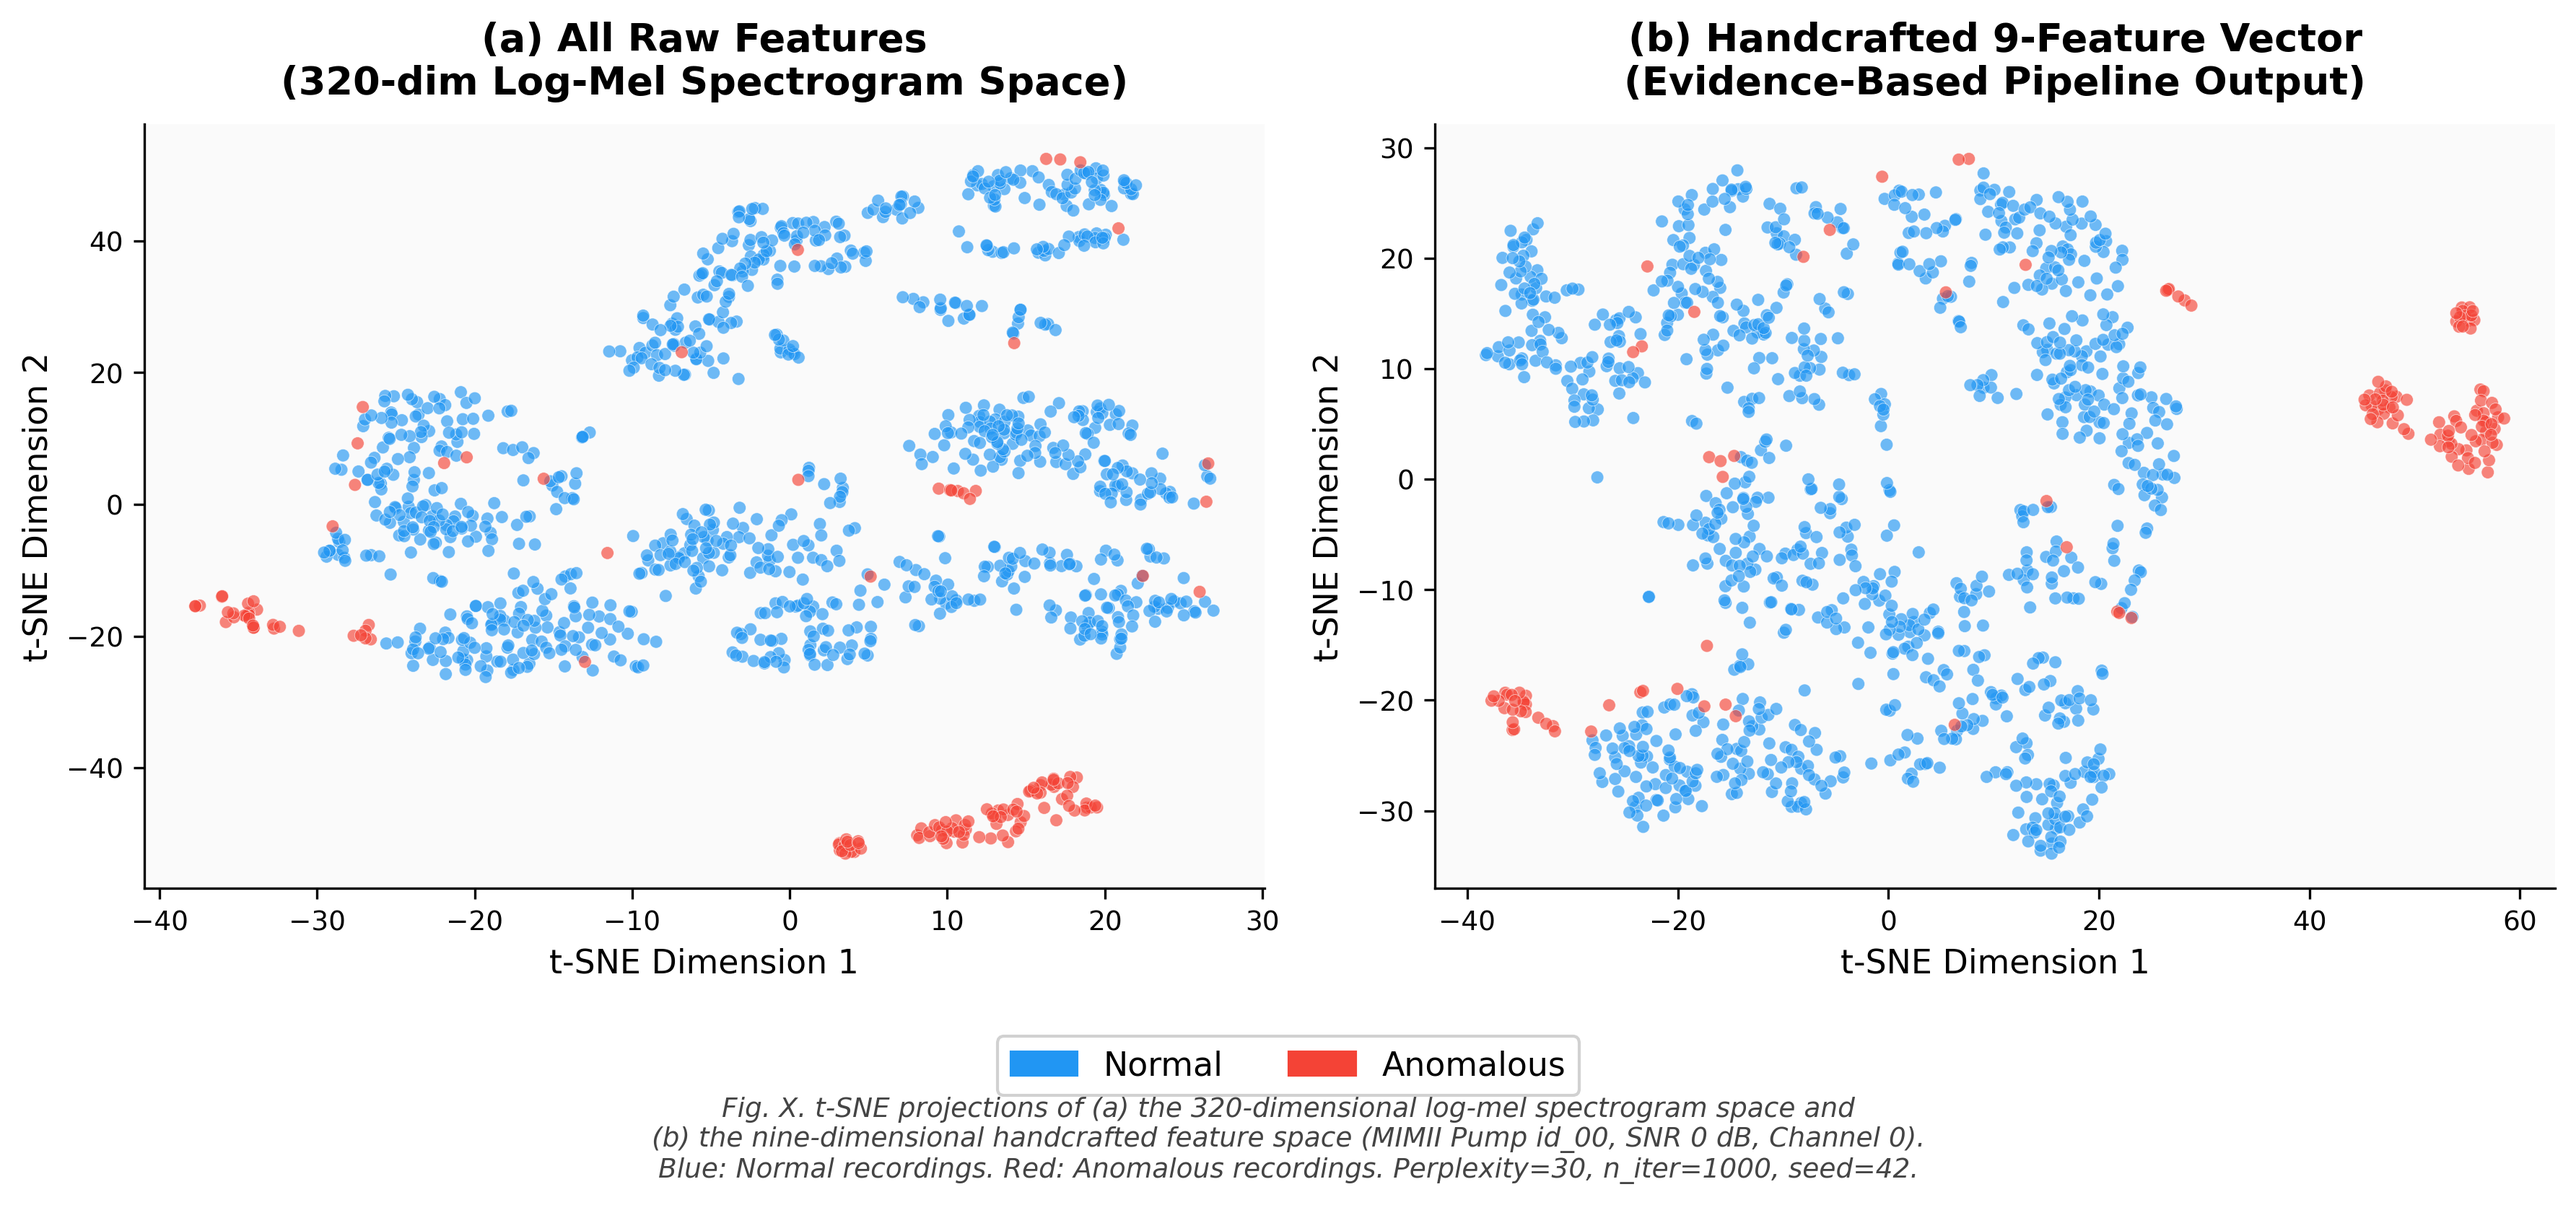
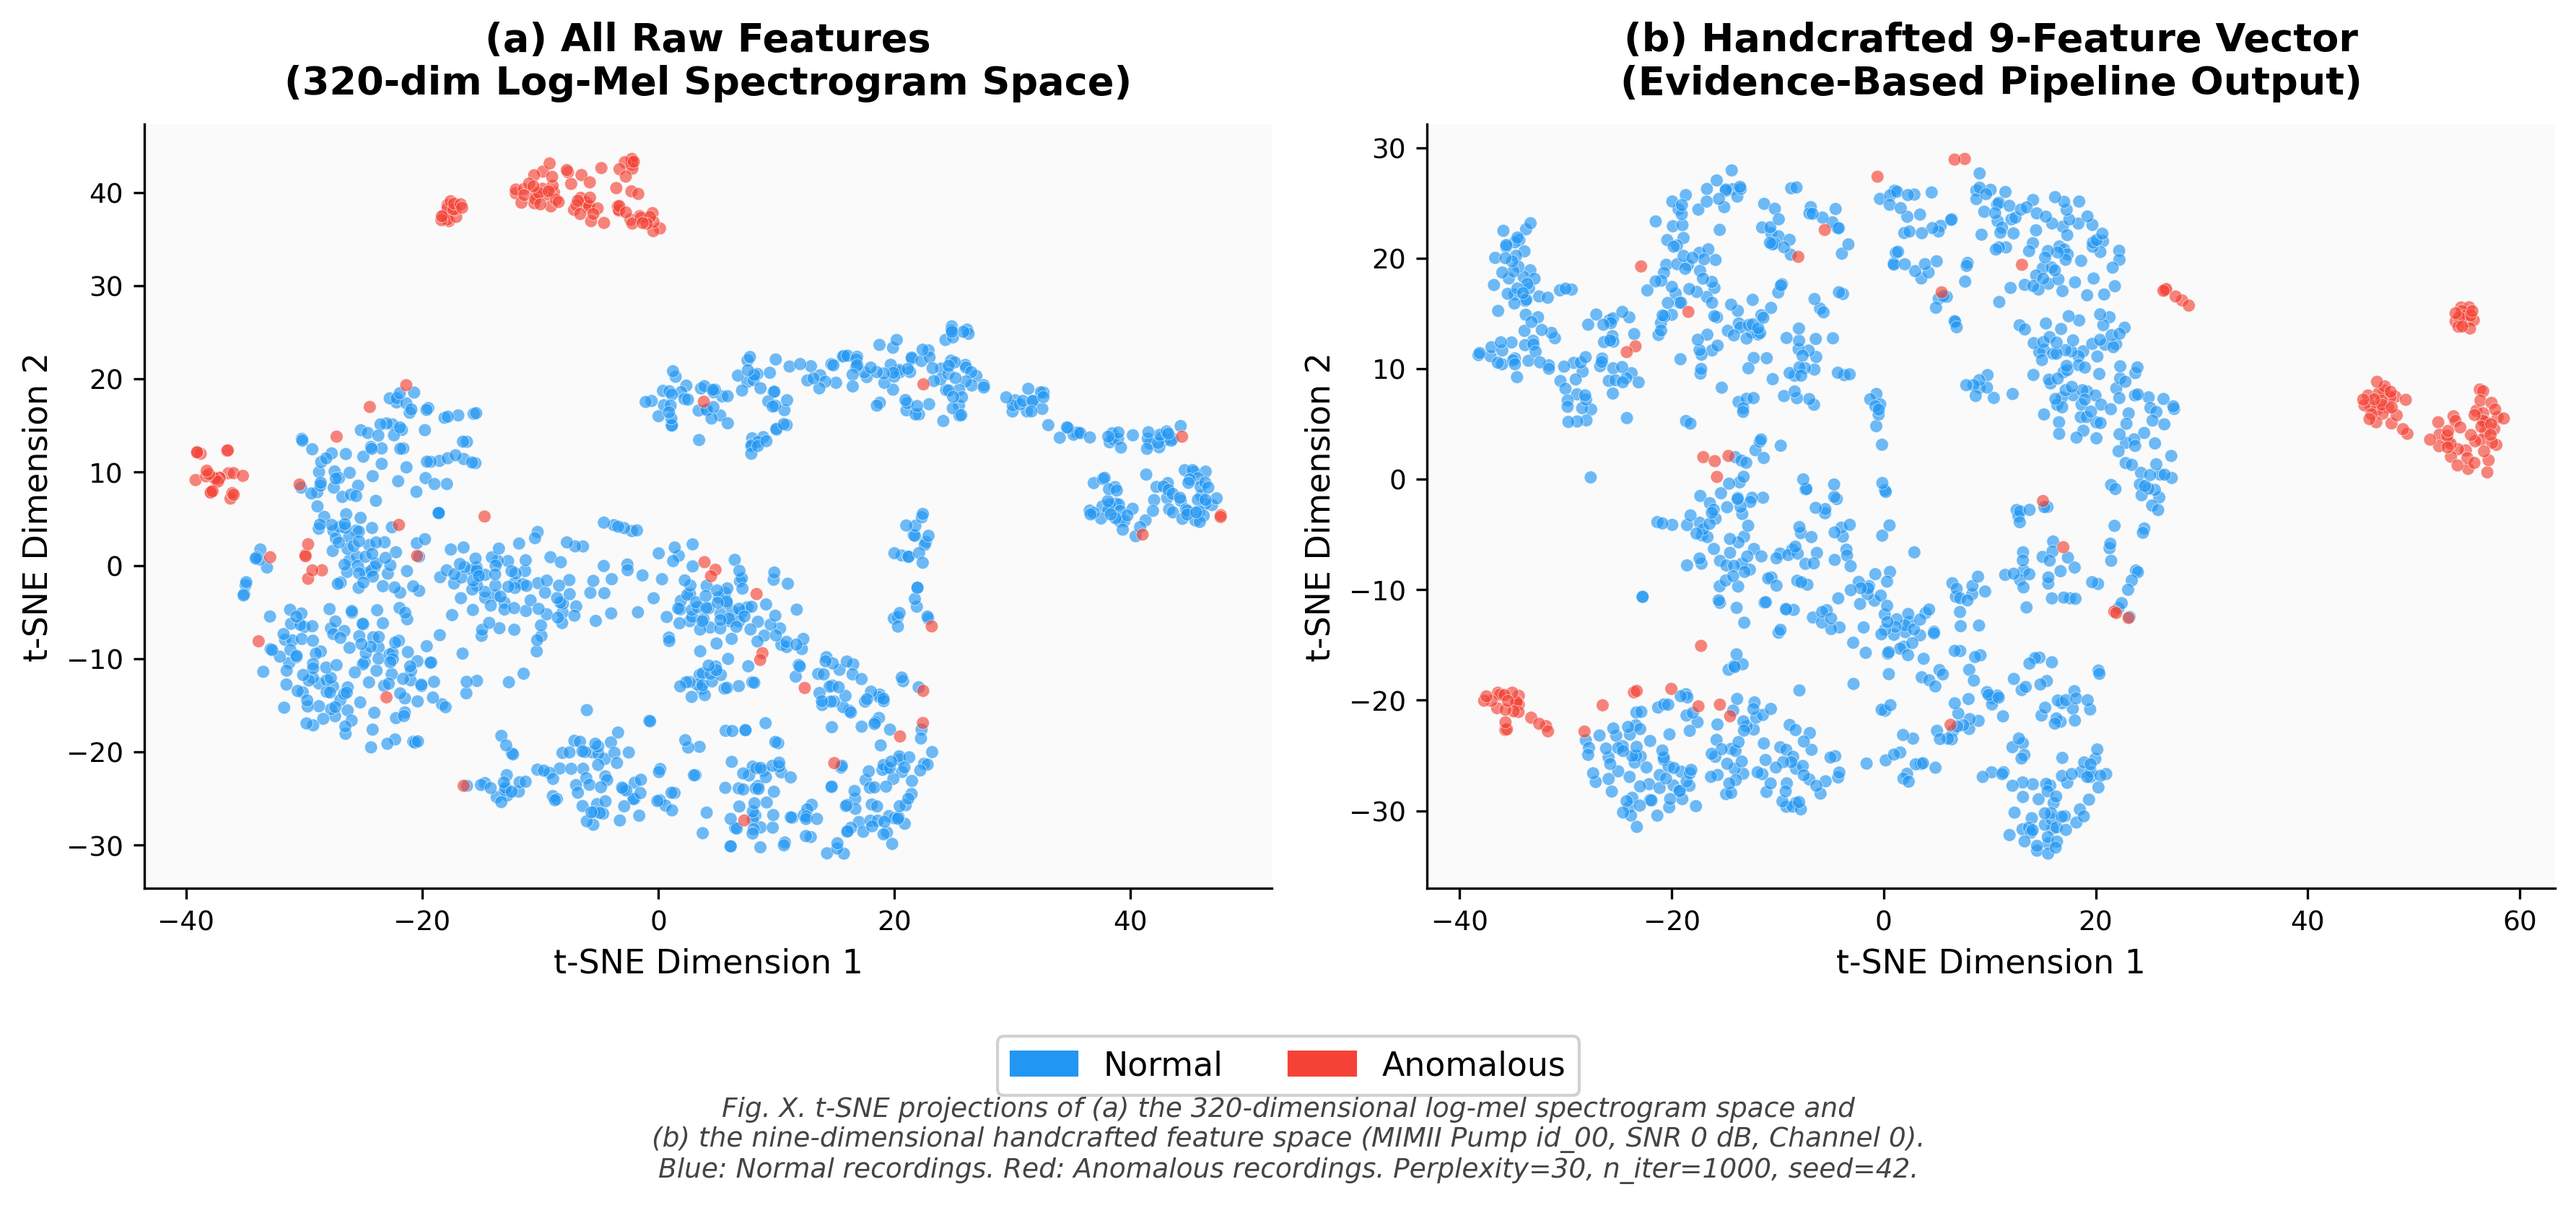
Updated the streamlit app

diff --git a/streamlit_app_2/pages/3_Model_Comparison_2.py b/streamlit_app_2/pages/3_Model_Comparison_2.py
@@ -18,8 +18,8 @@ st.write(
 )
 st.markdown("---")
 
-tab_table, tab_chart, tab_figures, tab_findings = st.tabs(
-    ["📊 Table", "📈 Chart", "🖼 Figures", "🔍 Key Findings"]
+tab_table, tab_figures, tab_findings = st.tabs(
+    ["📊 Table", "🖼 Figures", "🔍 Key Findings"]
 )
 
 # -------------------------------------------------------------------------
@@ -32,47 +32,47 @@ with tab_table:
 
     st.markdown("#### Best Results")
     col1, col2, col3 = st.columns(3)
-    col1.metric("Baseline AE", f"{METRICS['Baseline Autoencoder']:.3f}")
+    col1.metric("Baseline AE", f"{METRICS['Baseline Autoencoder']}")
     col2.metric(
         "Handcrafted AE",
-        f"{METRICS['Handcrafted Autoencoder']:.3f}",
-        delta=f"+{METRICS['Handcrafted Autoencoder'] - METRICS['Baseline Autoencoder']:.3f}",
+        f"{METRICS['Handcrafted Autoencoder']}",
+        #delta=f"+{METRICS['Handcrafted Autoencoder'] - METRICS['Baseline Autoencoder']}",
     )
     col3.metric(
         "Normalizing Flow",
-        f"{METRICS['Normalizing Flow']:.4f}",
-        delta=f"+{METRICS['Normalizing Flow'] - METRICS['Baseline Autoencoder']:.3f}",
+        f"{METRICS['Normalizing Flow']}",
+        #delta=f"+{METRICS['Normalizing Flow'] - METRICS['Baseline Autoencoder']}",
     )
 
 # -------------------------------------------------------------------------
 # Interactive chart
 # -------------------------------------------------------------------------
-with tab_chart:
-    st.header("ROC-AUC by Model")
-    models = list(METRICS.keys())
-    values = list(METRICS.values())
-    colors = [ACCENT_SOFT, ACCENT_SOFT, ACCENT]
+# with tab_chart:
+#     st.header("ROC-AUC by Model")
+#     models = list(METRICS.keys())
+#     values = list(METRICS.values())
+#     colors = [ACCENT_SOFT, ACCENT_SOFT, ACCENT]
 
-    fig = go.Figure(
-        data=[
-            go.Bar(
-                x=models,
-                y=values,
-                text=[f"{v:.4f}" for v in values],
-                textposition="outside",
-                marker_color=colors,
-            )
-        ]
-    )
-    fig.update_layout(
-        template=PLOTLY_TEMPLATE,
-        yaxis_title="ROC-AUC",
-        yaxis_range=[0, 1.08],
-        height=420,
-        margin=dict(l=10, r=10, t=30, b=10),
-    )
-    st.plotly_chart(fig, use_container_width=True)
-    st.caption("Hover over a bar to see its exact ROC-AUC value.")
+#     fig = go.Figure(
+#         data=[
+#             go.Bar(
+#                 x=models,
+#                 y=values,
+#                 text=[f"{v}" for v in values],
+#                 textposition="outside",
+#                 marker_color=colors,
+#             )
+#         ]
+#     )
+#     fig.update_layout(
+#         template=PLOTLY_TEMPLATE,
+#         yaxis_title="ROC-AUC",
+#         yaxis_range=[0, 1.08],
+#         height=420,
+#         margin=dict(l=10, r=10, t=30, b=10),
+#     )
+#     st.plotly_chart(fig, use_container_width=True)
+#     st.caption("Hover over a bar to see its exact ROC-AUC value.")
 
 # -------------------------------------------------------------------------
 # Figures (guarded — the original file referenced images that may not exist)
@@ -102,12 +102,19 @@ with tab_figures:
             else:
                 st.info(f"`{filename}` not found yet.")
 
-    # st.subheader("ROC Curve")
-    # roc_path = PROJECT_ROOT / "figures" / "roc_comparison.png"
-    # if roc_path.is_file():
-    #     st.image(str(roc_path), use_container_width=True)
-    # else:
-    #     st.info("`figures/roc_comparison.png` not found yet.")
+    st.subheader("ROC-AUC Boxplot Comparison")
+    roc_path = PROJECT_ROOT/"results"/"figures"/"streamlit_images"/"auc_boxplot.png"
+    if roc_path.is_file():
+        st.image(str(roc_path))
+    else:
+        st.info("`figures/streamlit_images/auc_boxplot.png` not found yet.")
+
+    st.subheader("pAUC Boxplot Comparison")
+    pauc_path = PROJECT_ROOT/"results"/"figures"/"streamlit_images"/"pauc_boxplot.png"
+    if pauc_path.is_file():
+        st.image(str(pauc_path))
+    else:
+        st.info("`figures/streamlit_images/auc_boxplot.png` not found yet.")
 
 # -------------------------------------------------------------------------
 # Key findings
@@ -118,16 +125,15 @@ with tab_findings:
         f"""
         Feature engineering dramatically improved anomaly detection
         performance. Using only **9 handcrafted features**, the
-        Autoencoder improved from **{METRICS['Baseline Autoencoder']:.3f}**
-        to **{METRICS['Handcrafted Autoencoder']:.3f} ROC-AUC** while
-        reducing training time from roughly **10–15 minutes** to **1–2
-        minutes**.
+        Autoencoder improved from **{METRICS['Baseline Autoencoder']}**
+        to **{METRICS['Handcrafted Autoencoder']} ROC-AUC and pAUC** while
+        reducing training time from roughly **~25 minutes** to **~1 minute**.
         """
     )
     st.info(
         f"""
-        Normalizing Flow achieved the highest ROC-AUC
-        (**{METRICS['Normalizing Flow']:.4f}**) while maintaining similar
+        Normalizing Flow achieved the highest ROC-AUC and pAUC
+        (**{METRICS['Normalizing Flow']}**) while maintaining similar
         computational efficiency.
 
         For the evaluated **MIMII Pump id_00 (Channel 0)** dataset,

diff --git a/streamlit_app_2/constants.py b/streamlit_app_2/constants.py
@@ -2,50 +2,44 @@
 Central place for numbers, labels, and copy that are reused across
 multiple pages of the EchoGuard dashboard.
 
-NOTE: The original app had different ROC-AUC values for the same model
-on different pages (e.g. Handcrafted Autoencoder was reported as 0.980,
-0.984 AND 0.968 in three different spots; Normalizing Flow was reported
-as 0.9871 AND 0.9895). Whoever maintains this project should replace the
-placeholders below with the exact values from the final notebook run --
-right now they default to the value that appeared most often.
 """
 
 # ---------------------------------------------------------------------------
 # Headline metrics (ROC-AUC) — single source of truth
 # ---------------------------------------------------------------------------
 METRICS = {
-    "Baseline Autoencoder": 0.6830,
-    "Handcrafted Autoencoder": 0.9840,
-    "Normalizing Flow": 0.9871,
+    "Baseline Autoencoder": "72.23 ± 2.05, 79.27 ± 3.07",
+    "Handcrafted Autoencoder": "96.93 ± 0.74, 89.92 ± 1.03",
+    "Normalizing Flow": "98.34 ± 0.76, 94.64 ± 1.45",
 }
 
 # Extra columns for the detailed comparison table on the Model Comparison page
 COMPARISON_TABLE = {
     "Metric": [
-        "ROC-AUC",
+        "ROC-AUC and pAUC",
         "Input Features",
         "Training Time",
         "Anomaly Score",
         "Training Data",
     ],
     "Baseline Autoencoder": [
-        f"{METRICS['Baseline Autoencoder']:.3f}",
+        METRICS["Baseline Autoencoder"],
         "320 Log-Mel",
-        "10-15 min",
+        "~25 min",
         "Reconstruction Error",
         "Normal recordings",
     ],
     "Handcrafted Autoencoder": [
-        f"{METRICS['Handcrafted Autoencoder']:.3f}",
+        METRICS["Handcrafted Autoencoder"],
         "9 Selected Features",
-        "1-2 min",
+        "~1 min",
         "Reconstruction Error",
         "Normal recordings",
     ],
     "Normalizing Flow": [
-        f"{METRICS['Normalizing Flow']:.4f}",
+        METRICS["Normalizing Flow"],
         "9 Selected Features",
-        "1-2 min",
+        "~1 min",
         "Negative Log-Likelihood",
         "Normal recordings",
     ],

diff --git a/streamlit_app_2/pages/1_Home_2.py b/streamlit_app_2/pages/1_Home_2.py
@@ -30,16 +30,16 @@ comparative evaluation.
 )
 
 metric_cols = st.columns(3)
-metric_cols[0].metric("Baseline Autoencoder ROC-AUC", f"{METRICS['Baseline Autoencoder']:.3f}")
+metric_cols[0].metric("Baseline Autoencoder ROC-AUC and pAUC (%)", f"{METRICS['Baseline Autoencoder']}")
 metric_cols[1].metric(
-    "Handcrafted Autoencoder ROC-AUC",
-    f"{METRICS['Handcrafted Autoencoder']:.3f}",
-    delta=f"+{METRICS['Handcrafted Autoencoder'] - METRICS['Baseline Autoencoder']:.3f} vs baseline",
+    "Handcrafted Autoencoder ROC-AUC and pAUC (%)",
+    f"{METRICS['Handcrafted Autoencoder']}",
+    #delta=f"+{METRICS['Handcrafted Autoencoder'] - METRICS['Baseline Autoencoder']} vs baseline",
 )
 metric_cols[2].metric(
-    "Normalizing Flow ROC-AUC",
-    f"{METRICS['Normalizing Flow']:.4f}",
-    delta=f"+{METRICS['Normalizing Flow'] - METRICS['Baseline Autoencoder']:.3f} vs baseline",
+    "Normalizing Flow ROC-AUC and pAUC (%)",
+    f"{METRICS['Normalizing Flow']}",
+    #delta=f"+{METRICS['Normalizing Flow'] - METRICS['Baseline Autoencoder']} vs baseline",
 )
 
 st.markdown("---")
@@ -137,9 +137,9 @@ with tab_pipeline:
                 )
 
 with tab_findings:
-    st.success(f"**Baseline Autoencoder (Log-Mel):** ROC-AUC = **{METRICS['Baseline Autoencoder']:.3f}**")
-    st.success(f"**Handcrafted Feature Autoencoder:** ROC-AUC = **{METRICS['Handcrafted Autoencoder']:.3f}**")
-    st.success(f"**Normalizing Flow:** ROC-AUC = **{METRICS['Normalizing Flow']:.4f}**")
+    st.success(f"**Baseline Autoencoder (Log-Mel):** ROC-AUC and pAUC = **{METRICS['Baseline Autoencoder']}**")
+    st.success(f"**Handcrafted Feature Autoencoder:** ROC-AUC and pAUC= **{METRICS['Handcrafted Autoencoder']}**")
+    st.success(f"**Normalizing Flow:** ROC-AUC and pAUC = **{METRICS['Normalizing Flow']}**")
     st.info(
         """
         The experiments indicate that **feature representation had a much

diff --git a/streamlit_app_2/app_2.py b/streamlit_app_2/app_2.py
@@ -37,12 +37,7 @@ st.markdown(
 # -------------------------------------------------------------------------
 # Sidebar branding
 # -------------------------------------------------------------------------
-# NOTE (structural fix): the previous version defined the Home page in TWO
-# places — inline in this file AND in pages/1_Home.py — which made Streamlit
-# show two different "home" entries in the sidebar and made the two copies
-# drift out of sync (different ROC-AUC numbers, different wording). Using
-# st.navigation() below gives this app a single, explicit list of pages, and
-# all shared numbers now live in constants.py instead of being duplicated.
+
 with st.sidebar:
     st.markdown("## 🎧 EchoGuard")
     st.caption("Unsupervised Machine Audio Anomaly Detection")

diff --git a/results/tSNE_visualization.py b/results/tSNE_visualization.py
@@ -21,7 +21,7 @@ RANDOM_SEED = 42
 print("Loading data...")
 
 df_9   = pd.read_csv(results_path/"selected_features.csv")   # 9 features + label
-df_all = pd.read_csv(results_path/"features.csv")             # all features + label
+df_all = pd.read_csv(results_path/"mfcc_summary.csv")             # all features + label
 
 #Separate features and labels 
 
@@ -31,7 +31,7 @@ X9     = df_9.drop(columns= ["file_name", "Research_Group", "label"]).values
 y9     = df_9["label"].values
 
 # -- Full feature set
-X_all  = df_all.drop(columns= ["file_name", "Research_Group", "label", "Group", "recording_id"]).values
+X_all  = df_all.drop(columns= ["file_name", "label"]).values
 y_all  = df_all["label"].values
 
 #Standardise 

diff --git a/streamlit_app_2/pages/4_Interactive_Prediction_2.py b/streamlit_app_2/pages/4_Interactive_Prediction_2.py
@@ -46,8 +46,8 @@ AE_MODEL_PATH = PROJECT_ROOT / "results/models/handcrafted_autoencoder_full.pth"
 NF_MODEL_PATH = PROJECT_ROOT / "results/models/normalizing_flow_full.pth"
 SCALER_PATH = PROJECT_ROOT / "results/models/feature_scaler.pkl"
 
-AE_THRESHOLD = 30.971419
-NF_THRESHOLD = 1000.11544
+AE_THRESHOLD = 40
+NF_THRESHOLD = 1500
 
 FEATURE_NAMES = [
     "RMS",
